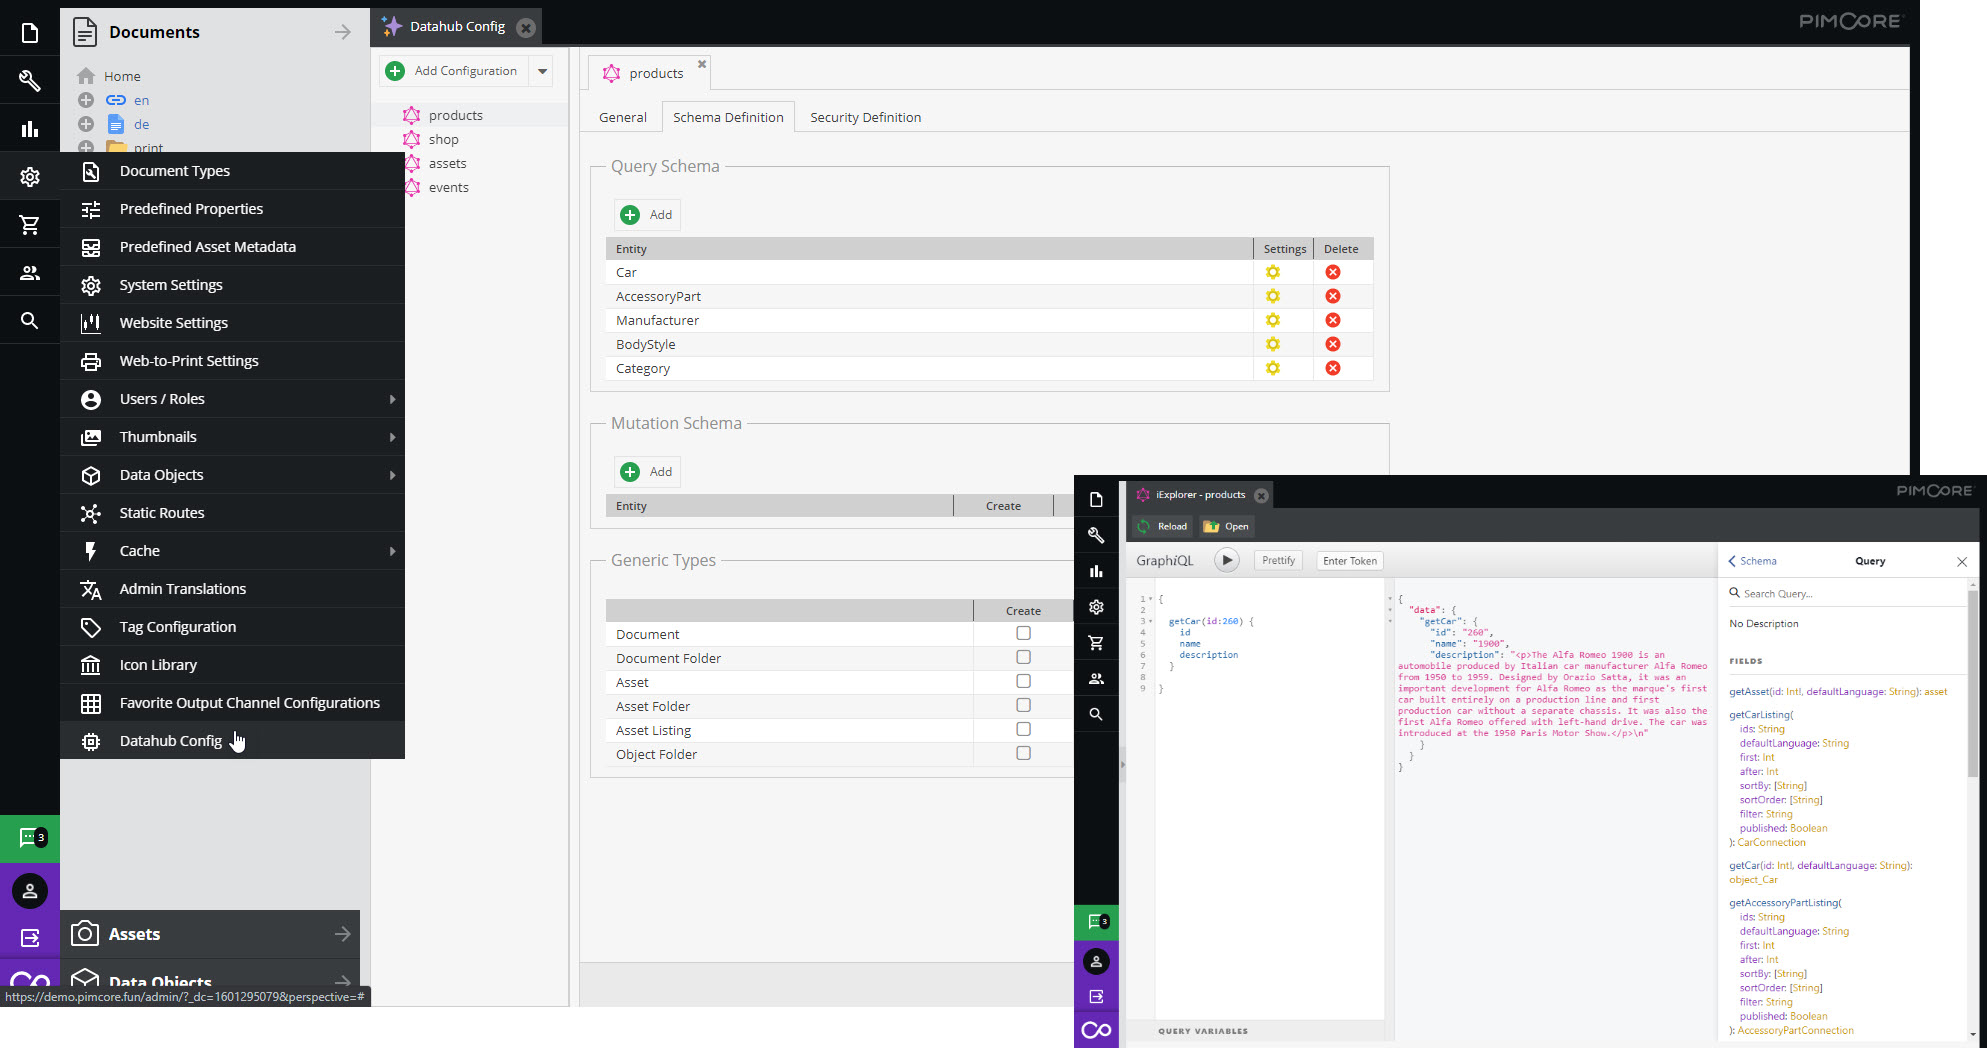
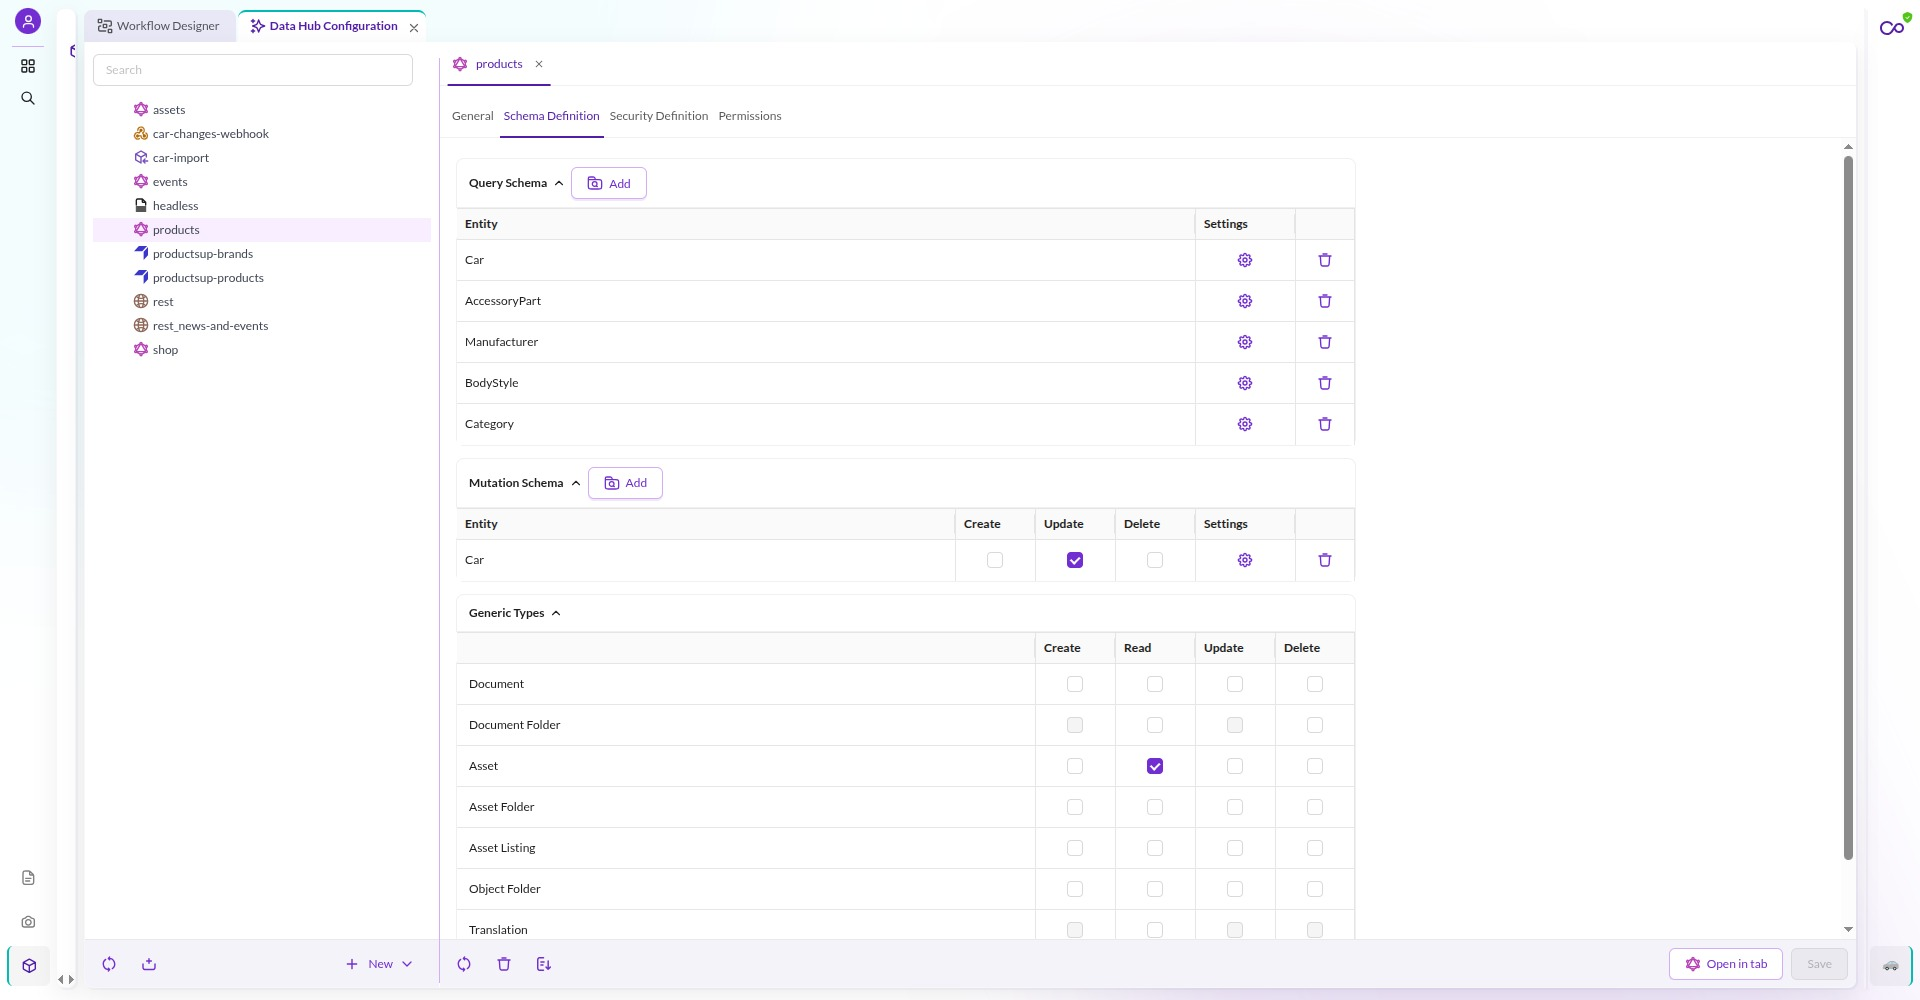
Drop the Studio Integration page and document the Studio events
The page described @internal Studio REST endpoints that Studio already
documents itself at /pimcore-studio/api/docs, and duplicated the permission
table from the installation chapter. It also documented none of the four
pre-response events the bundle actually dispatches.

Replace it with doc/05_Extending.md, which documents all four
(configuration, configuration_detail, permission_user, thumbnail) and points to
the much richer GraphQL event set. Keep the clarification that the API exposed
to other systems is the GraphQL endpoint, not the Studio API, in the GraphQL
chapter where readers look for it.

Screenshots: replace the chapter hero (it was an Admin Classic composite) and
the mutation schema grid with Pimcore Studio captures, and delete two images no
page references.

Claude-Session: https://claude.ai/code/session_019LmFQ3VND6uUqMpWsmppz6

diff --git a/doc/05_Extending.md b/doc/05_Extending.md
@@ -1,0 +1,34 @@
+---
+title: Extending
+description: Hook into the Studio API events dispatched by the Datahub configuration panel.
+---
+
+# Extending
+
+## Studio API Events
+
+The Datahub configuration panel is a Pimcore Studio plugin. Before one of its endpoints returns, the bundle dispatches
+a pre-response event carrying the response schema. Listen for it to add your own data to the response.
+
+| Event | Returned data |
+|---|---|
+| `pre_response.data_hub.configuration` | A configuration entry in the configuration tree listing: id, label, type, icon, adapter, writable flag, permissions, and child entries. |
+| `pre_response.data_hub.configuration_detail` | The full detail of a single configuration: its name, configuration data, the current user's permissions on it, the supported GraphQL query and mutation data types, and the modification date. |
+| `pre_response.data_hub.permission_user` | A user or role entry offered on a configuration's Permissions tab: id, display name, and element type (`user` or `role`). |
+| `pre_response.data_hub.thumbnail` | A thumbnail definition entry offered for selection in a configuration: id and display name. |
+
+See the Studio Backend bundle's
+[Additional and Custom Attributes documentation](https://github.com/pimcore/studio-backend-bundle/blob/2026.x/doc/03_Extending/02_Additional_and_Custom_Attributes.md)
+for the listener pattern.
+
+:::warning
+
+The endpoints themselves are not a supported public API. They are marked `@internal`, may change in any release
+without a deprecation path, and must not be built against.
+
+:::
+
+## GraphQL Events
+
+The GraphQL endpoint has its own, much richer event set covering query and mutation type building, listings,
+execution, output cache, and permissions. See [GraphQL Events](./10_GraphQL/10_Events.md) for the full list.

diff --git a/README.md b/README.md
@@ -26,14 +26,15 @@ A short introduction video of an output channel based on the GraphQL query langu
 ## Documentation Overview
 - [Installation](./doc/01_Installation_and_Upgrade/README.md)
 - [Basic principle](./doc/02_Basic_Principle.md) for configuring an endpoint
-- [Studio Integration](./doc/04_Studio_Integration.md) for the configuration panel and its permissions
+- [Extending](./doc/05_Extending.md) for the Studio API events; permissions for the configuration panel are covered in
+  [Installation](./doc/01_Installation_and_Upgrade/README.md#user-permissions)
 - [GraphQL](./doc/10_GraphQL/README.md) [*default and recommended endpoint*]
 - [Configuration & Deployment](./doc/20_Deployment.md)
 - [Testing](./doc/30_Testing.md)
 
 ## Further Information
 On Pimcore Datahub adapters:
-- [Data Importer](https://github.com/pimcore/data-importer/blob/2026.x/doc/01_Installation.md)
+- [Data Importer](https://github.com/pimcore/data-importer/blob/2026.x/doc/01_Installation/README.md)
 - [Datahub Simple REST API](https://github.com/pimcore/data-hub-simple-rest/blob/2026.x/doc/01_Installation/README.md)
 - [Datahub File Export](https://github.com/pimcore/data-hub-file-export/blob/2026.x/doc/01_Installation/README.md)
 - [Datahub Productsup](https://github.com/pimcore/data-hub-productsup/blob/2026.x/doc/01_Installation/README.md)

diff --git a/doc/10_GraphQL/README.md b/doc/10_GraphQL/README.md
@@ -24,7 +24,8 @@ Configuration takes place in the endpoint configuration and offers following pos
 - [Custom Permissions](./01_Configuration/04_Custom_Permissions.md)
 
 ## External Access
-The standard endpoint is
+The API that Datahub exposes to other systems is this configured endpoint itself, not the Pimcore Studio API used by
+the configuration panel. The standard endpoint is
 ```
 /pimcore-graphql-webservices/{configurationname}?apikey={yourApiKey}
 ```
